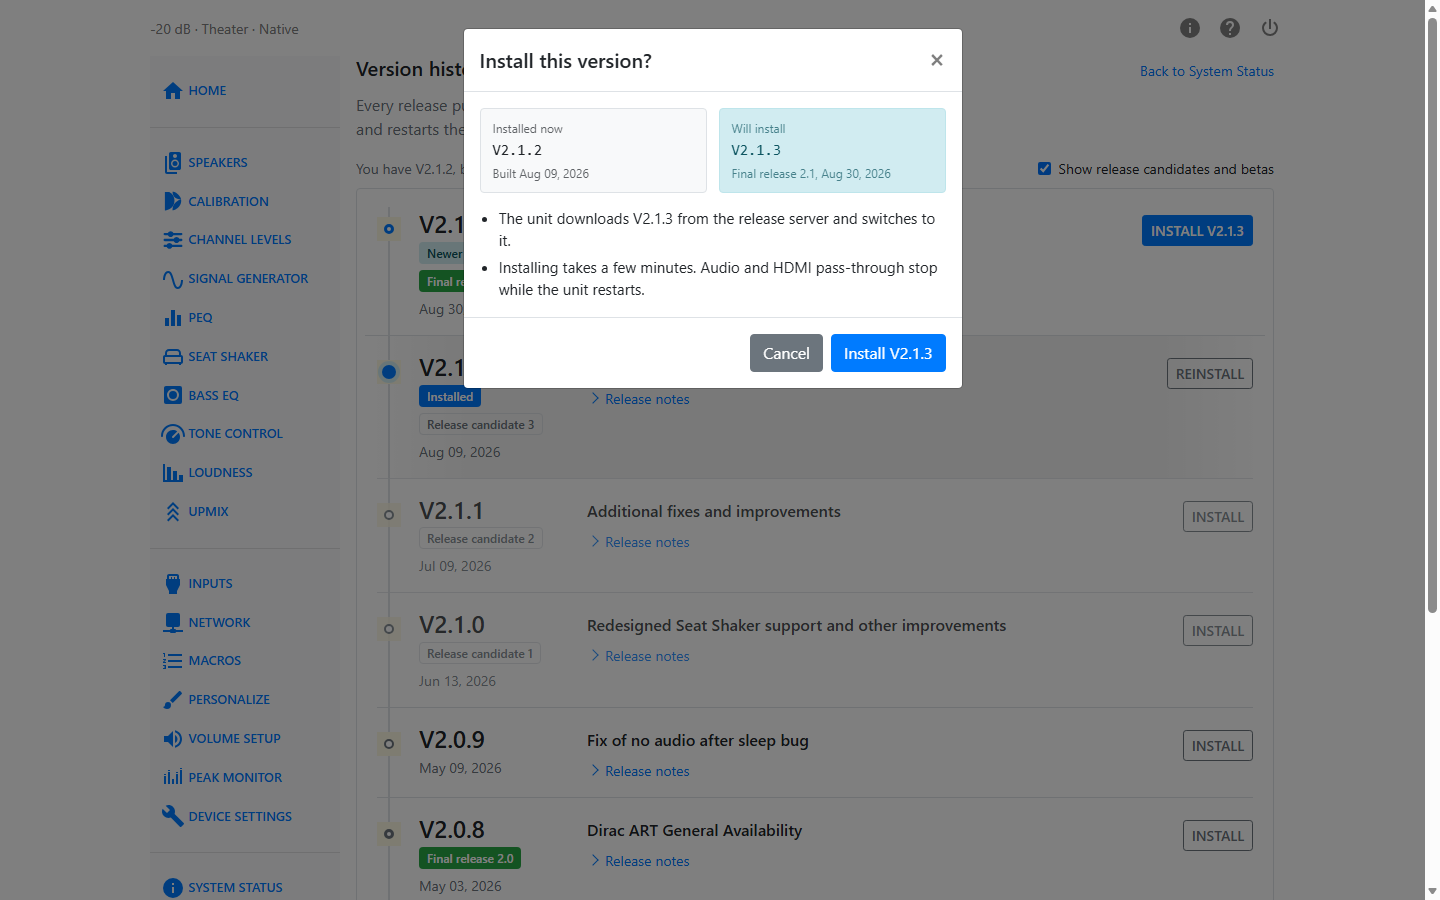
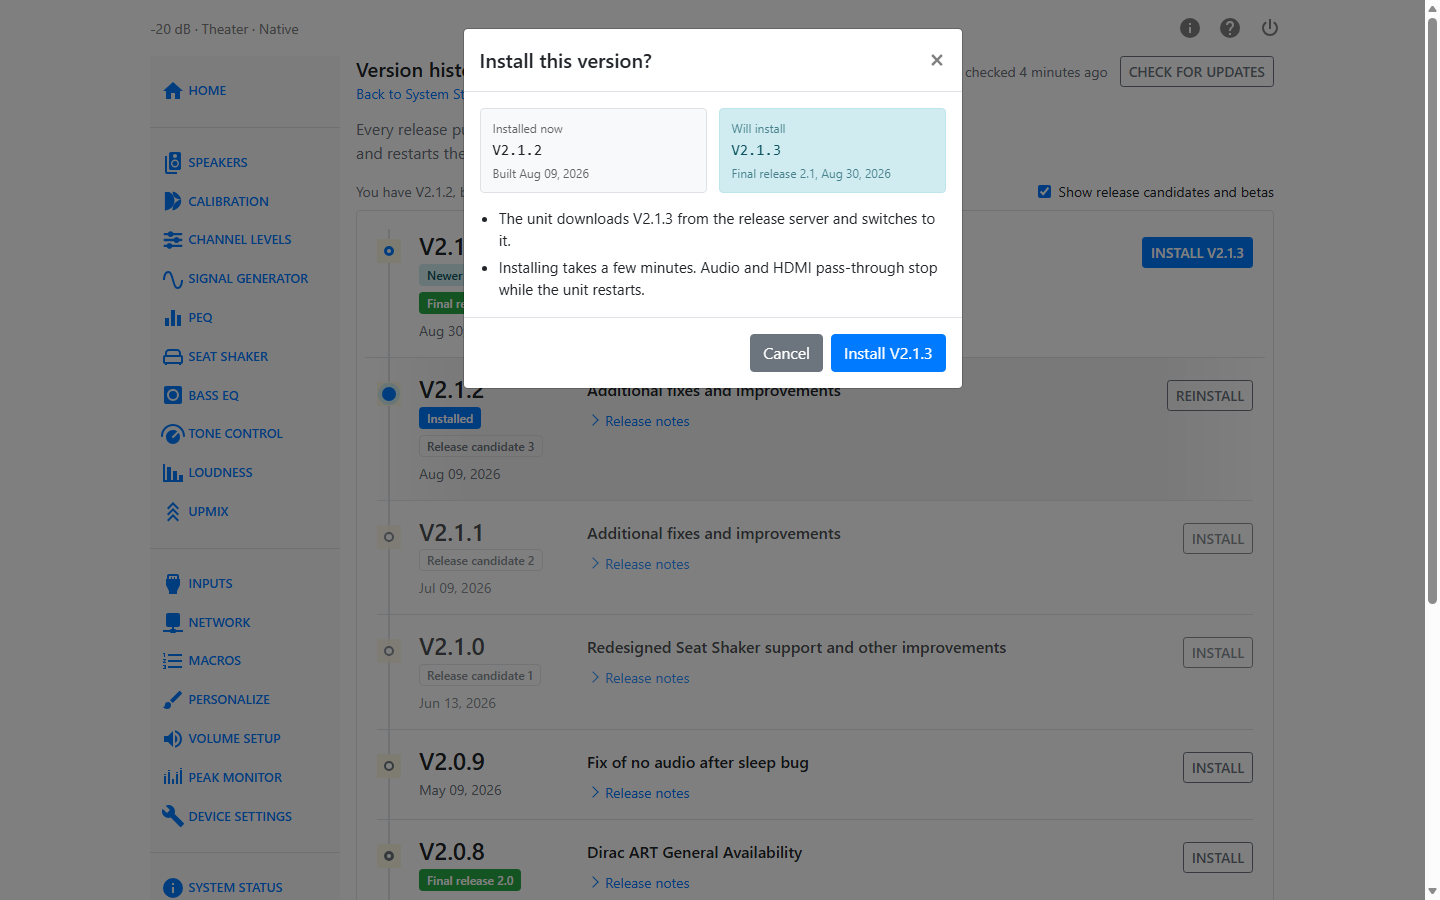
Refresh the System Status and Updates pages for the reworked software panel
Check for updates and Last checked now live at the top right of the page
with Version history beside them; the footer links are gone. The state
table gains "Can't check for updates", and Updates and Support gets a
section on units without an internet connection, with a screenshot, and a
note that updates can be installed from standby. All screenshots retaken
from the current pages as an owner's unit shows them.

diff --git a/docs/user-guide/system-status.md b/docs/user-guide/system-status.md
@@ -8,28 +8,26 @@ exact hardware and software versions that support will ask for if you report a p
 
 ## System software
 
-The panel at the top is about the software itself.
+The controls at the top right apply to the whole page: **Last checked** tells you how old the
+information is, **Version history** opens the list of every release you can install, and
+**Check for updates** asks the release server again. The unit also checks on its own every six
+hours.
 
-On the left is the version you are running, for example `V2.1.3`, with its stage next to it
-(**Final release 2.1**, **Release candidate 2**) and the date it was built.
-
-On the right is where you stand:
+The panel below is about the software itself. On the left is the version you are running, for
+example `V2.1.3`, with its stage next to it (**Final release 2.1**, **Release candidate 2**) and
+the date it was built. On the right is where you stand:
 
 | You see | It means |
 | --- | --- |
-| **Your HTP-1 is up to date** | You have the newest release. **Check for updates** asks the release server again; the unit also checks on its own every six hours. |
-| **V2.1.4 is available** | A newer release exists. A one-line summary of it appears beneath. **Install V2.1.4** installs it after a confirmation; **What's new in V2.1.4** scrolls to its release notes. |
-| **Development build installed** | The unit is running a developer build rather than a public release. Owners will not normally see this. |
-
-Beneath the panel, **Version history** opens the list of every release you can install, and
-**Release notes for V2.1.3** opens the notes for the version you have. **Last checked** tells
-you how old the answer is.
+| **Your HTP-1 is up to date** | You have the newest release. |
+| **V2.1.3 is available** | A newer release exists, with a one-line summary beneath. **Install V2.1.3** installs it after a confirmation; **What's new in V2.1.3** scrolls to its release notes. |
+| **Can't check for updates** | The unit could not reach the release server the last time it checked, so it cannot tell whether a newer release exists. See [Updates and Support](maintenance.md#without-an-internet-connection). |
+| **Not a public release** | The unit is running a developer build rather than a public release. Owners will not normally see this. |
 
 ![System Status page when the installed release is the newest one](images/ui-system-status-up-to-date.png)
 
-When an update is available, a **What's new** panel lists its new features, changes and fixes,
-and the release notes for your installed version are folded beneath it. Open them with the
-arrow.
+When an update is available, a **What's new** panel lists its new features, changes and fixes.
+The release notes for the version you have are folded beneath it; open them with the arrow.
 
 See [Updates and Support](maintenance.md) for the update procedure and what to expect.
 

diff --git a/docs/user-guide/maintenance.md b/docs/user-guide/maintenance.md
@@ -4,11 +4,25 @@
 
 Open [System Status](system-status.md). The panel at the top shows the version you are
 running, its stage and build date, and on the right either **Your HTP-1 is up to date** or
-**V2.1.4 is available** with a short summary of the newer release.
+**V2.1.3 is available** with a short summary of the newer release.
 
-The unit checks for new releases on its own every six hours. **Check for updates** asks the
-release server right away. When a newer release is known, an **Update available** mark also
-appears on the Home page and next to the version.
+The unit checks for new releases on its own every six hours. **Check for updates**, at the top
+right of the page, asks the release server right away; **Last checked** beside it tells you how
+old the answer is. When a newer release is known, an **Update available** mark also appears on
+the Home page.
+
+### Without an Internet Connection
+
+The HTP-1 needs to reach the release server on the internet to learn about new releases. If it
+could not the last time it checked, System Status shows **Can't check for updates** with the
+time of that attempt, and the Version history page notes that its list may be missing newer
+releases. Nothing else on the unit is affected.
+
+![System Status page when the release server could not be reached](images/ui-system-status-offline.png)
+
+Make sure the unit is connected to a network with internet access, then click **Check for
+updates**. Releases already known to the unit can still be installed while it is offline, as
+long as the release server is reachable when the install starts.
 
 ## Reading Release Notes
 
@@ -20,9 +34,12 @@ Every release's notes are also on the **Version history** page, under each versi
 
 ## Performing an Update
 
-On the System Status page, click **Install V2.1.4** for the release that is available, or
+On the System Status page, click **Install V2.1.3** for the release that is available, or
 open **Version history** to pick a different one. A dialog shows what you have now, what will
 be installed, and what to expect. Confirm to start.
+
+You can also do this while the unit is in standby: the standby screen's **Quick Links** open
+the Version history page, and installing from there works the same way.
 
 ![Install dialog showing the installed version, the version that will be installed, and what to expect](images/ui-install-dialog.png)
 
